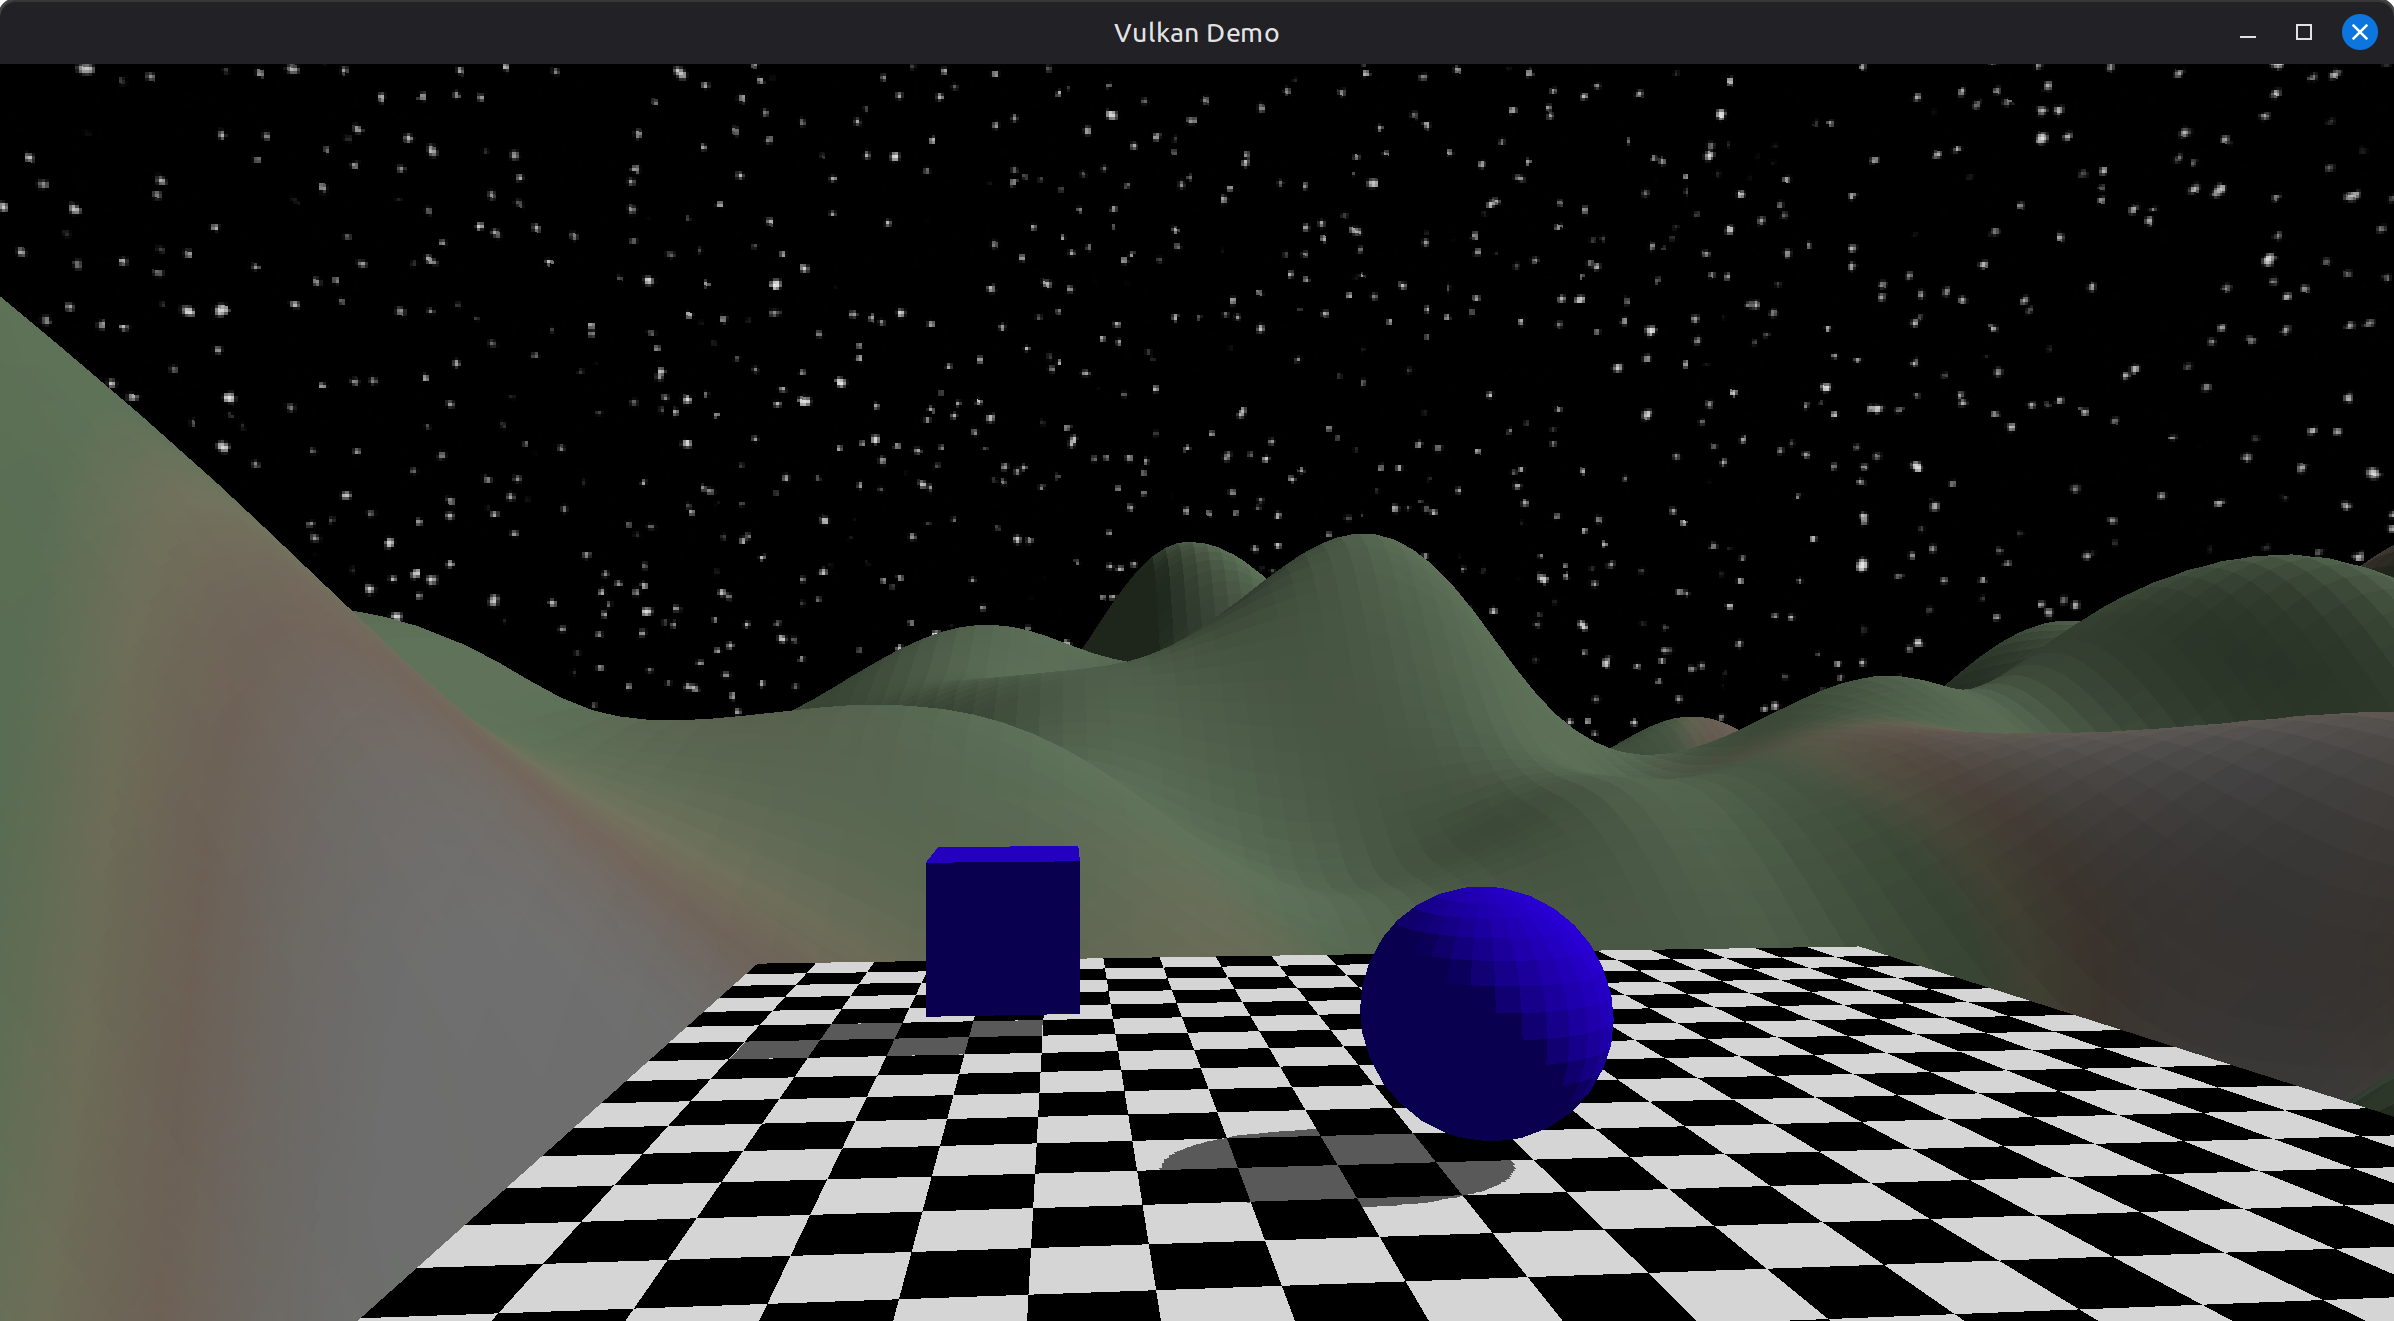
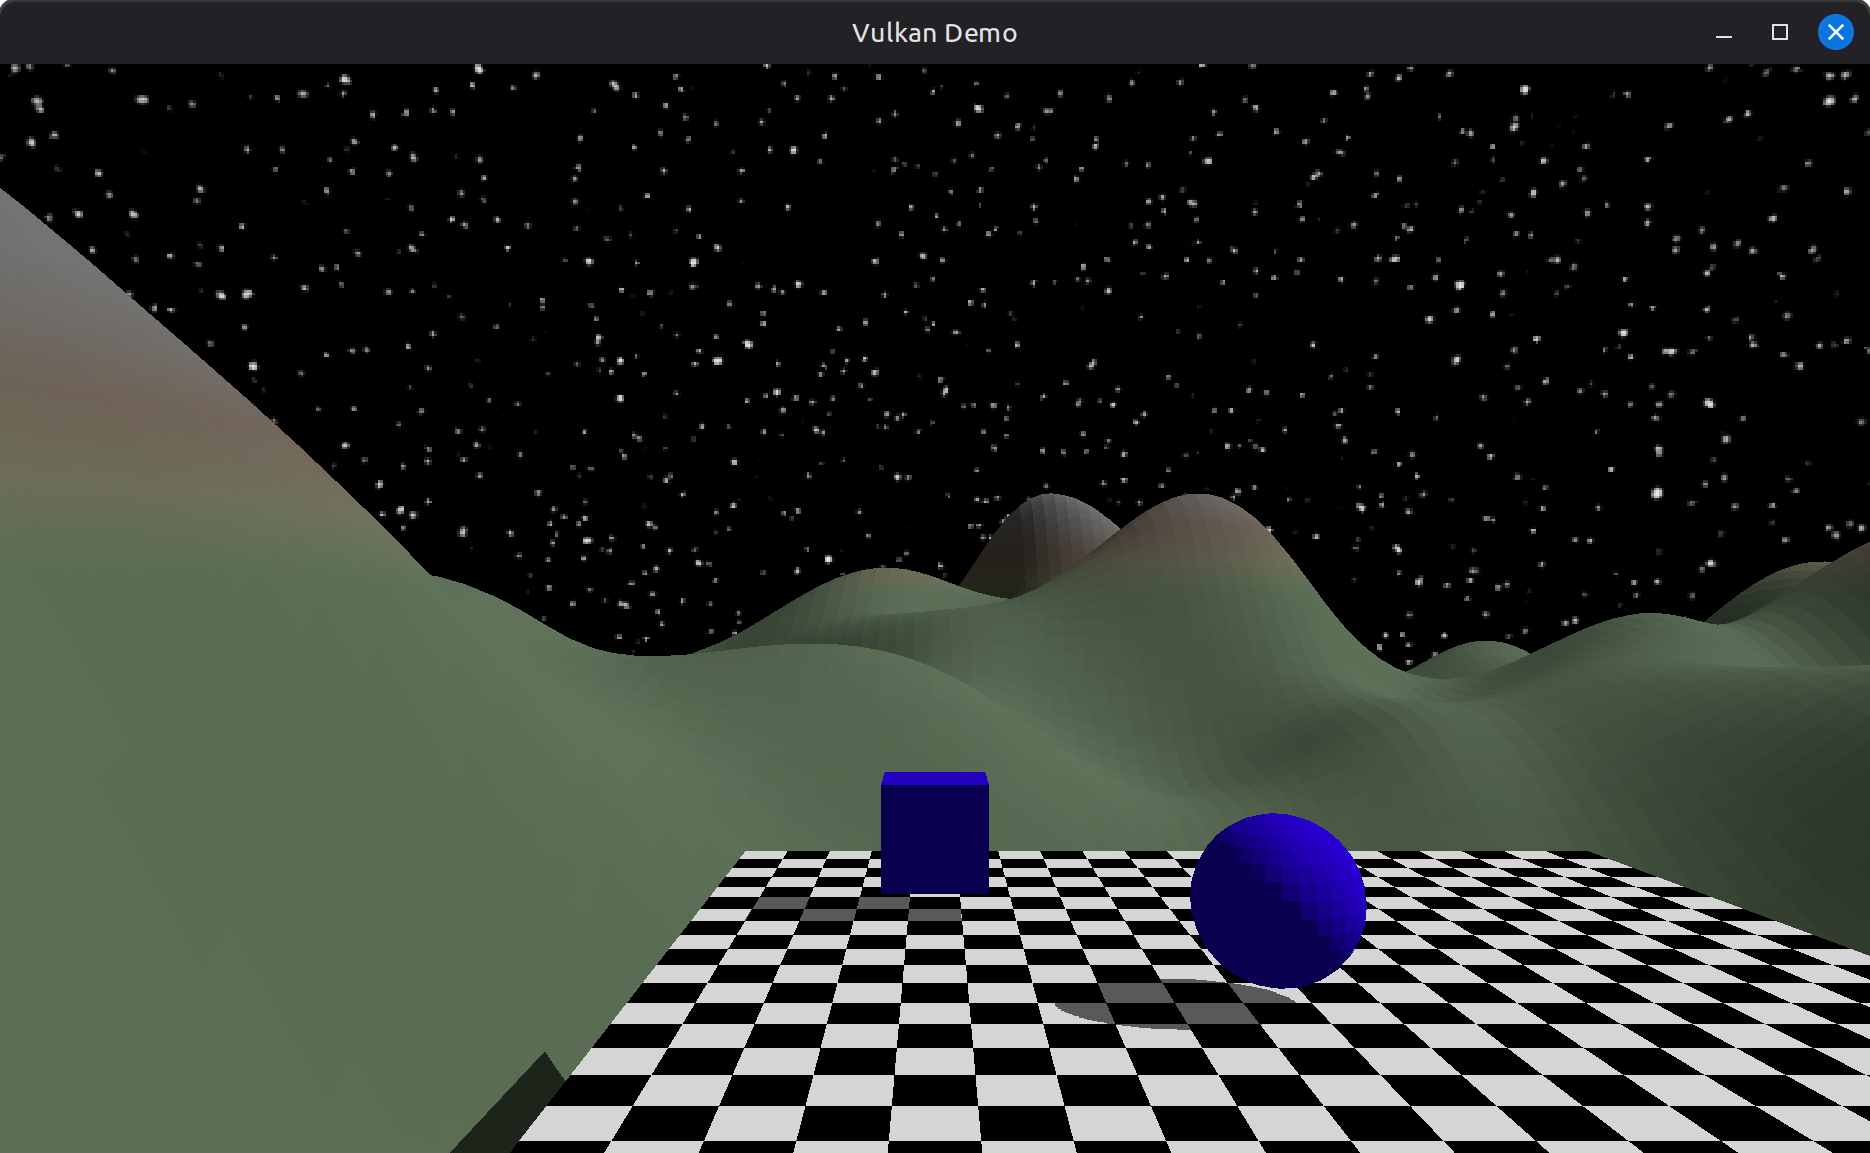
Fix image loading bug - where stbi flip vertically on load was setting a global, affecting tinygltf imports

diff --git a/src/main/image_loader.cpp b/src/main/image_loader.cpp
@@ -29,6 +29,7 @@ std::unique_ptr<assets::ImageData> createImageFromPath(const std::filesystem::pa
 
     stbi_set_flip_vertically_on_load(true);
     auto stbiData = stbi_load(path.c_str(), &width, &height, &channels, STBI_rgb_alpha);
+    stbi_set_flip_vertically_on_load(false);
     if (!stbiData)
     {
         throw std::runtime_error("Failed to load image: " + path.string());

diff --git a/README.md b/README.md
@@ -1,9 +1,7 @@
-# Vulkan Demo
+# Vulkan Lab
 A modern, lightweight sandbox for learning and experimenting with Vulkan. Primarily built on Linux.
 
 ![Image showing window with checkerboard floor, a blue cube and a blue ball](demo2.png)
-
-![Image showing window with coloured triangle drawn in the middle.](screenshot.png)
 
 # Requirements
 - Vulkan SDK
